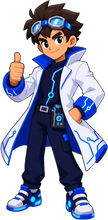
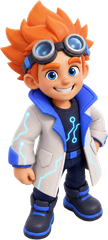
feat: dirección de arte v3 (render 3D estilizado) + caminata fluida
Nuevos assets 3D consistentes generados con referencia maestra: personaje,
plaza circular, moneda Spark. Área caminable recalibrada (elipse + fuente
como obstáculo), sombra bajo el personaje, squash & stretch e inclinación
al caminar, respiración en idle.

Claude-Session: https://claude.ai/code/session_01EoY916mbTRKJrbLf1Qigv7

diff --git a/game/index.html b/game/index.html
@@ -121,13 +121,21 @@
 const WORLD_W = 1920;
 const WORLD_H = 1085;
 
-// Polígono del área caminable (el piso claro de la plaza).
-// Coordenadas sobre la imagen plaza.jpg (1920x1085).
-const FLOOR = [
-  [960, 300], [1250, 360], [1520, 480], [1660, 620],
-  [1560, 800], [1290, 950], [960, 1010], [630, 950],
-  [360, 800], [260, 620], [400, 480], [670, 360],
-];
+// Área caminable de la plaza circular: elipse (vista isométrica)
+// sobre la imagen plaza.jpg (1920x1085), menos la fuente central.
+const FLOOR_CX = 950, FLOOR_CY = 610, FLOOR_RX = 590, FLOOR_RY = 370;
+const FOUNTAIN = { x: 945, y: 575, r: 185 };
+
+const FLOOR = [];
+for (let i = 0; i < 28; i++) {
+  const a = (i / 28) * Math.PI * 2;
+  FLOOR.push([FLOOR_CX + Math.cos(a) * FLOOR_RX, FLOOR_CY + Math.sin(a) * FLOOR_RY]);
+}
+
+function isWalkable(x, y) {
+  if (!pointInPolygon(x, y, FLOOR)) return false;
+  return Math.hypot(x - FOUNTAIN.x, y - FOUNTAIN.y) > FOUNTAIN.r;
+}
 
 function pointInPolygon(x, y, poly) {
   let inside = false;
@@ -142,11 +150,11 @@ function pointInPolygon(x, y, poly) {
 
 function randomFloorPoint() {
   for (let i = 0; i < 200; i++) {
-    const x = 260 + Math.random() * (1660 - 260);
-    const y = 300 + Math.random() * (1010 - 300);
-    if (pointInPolygon(x, y, FLOOR)) return { x, y };
+    const x = FLOOR_CX - FLOOR_RX + Math.random() * FLOOR_RX * 2;
+    const y = FLOOR_CY - FLOOR_RY + Math.random() * FLOOR_RY * 2;
+    if (isWalkable(x, y)) return { x, y };
   }
-  return { x: 960, y: 700 };
+  return { x: 960, y: 880 };
 }
 
 const COIN_COUNT = 6;
@@ -168,13 +176,14 @@ class PlazaScene extends Phaser.Scene {
     this.add.image(0, 0, "plaza").setOrigin(0);
 
     // --- Jugador ---
-    this.player = this.add.image(960, 760, "player").setOrigin(0.5, 0.92);
-    this.baseY = 760;
+    this.shadow = this.add.ellipse(960, 880, 92, 30, 0x0A0A23, 0.32);
+    this.player = this.add.image(960, 880, "player").setOrigin(0.5, 0.94);
+    this.baseY = 880;
     this.target = null;
     this.moving = false;
     this.bobT = 0;
 
-    this.nameTag = this.add.text(960, 760, playerName, {
+    this.nameTag = this.add.text(960, 880, playerName, {
       fontFamily: "ui-sans-serif, system-ui, sans-serif",
       fontSize: "22px", fontStyle: "bold",
       color: "#F4F4FF",
@@ -189,7 +198,7 @@ class PlazaScene extends Phaser.Scene {
     // --- Input ---
     this.input.on("pointerdown", (p) => {
       const wp = this.cameras.main.getWorldPoint(p.x, p.y);
-      if (pointInPolygon(wp.x, wp.y, FLOOR)) {
+      if (isWalkable(wp.x, wp.y)) {
         this.target = { x: wp.x, y: wp.y };
         this.marker(wp.x, wp.y);
       }
@@ -281,20 +290,31 @@ class PlazaScene extends Phaser.Scene {
       this.moving = false;
     }
 
-    // Bob al caminar + flip por dirección
+    // Caminata fluida: bob + squash & stretch + inclinación
     if (this.moving) {
-      this.bobT += dt * 0.02;
-      this.player.y = this.baseY + Math.sin(this.bobT) * 5;
-      this.player.angle = Math.sin(this.bobT) * 2.2;
+      this.bobT += dt * 0.022;
+      const bob = Math.abs(Math.sin(this.bobT));
+      this.player.y = this.baseY - bob * 7;
+      this.player.angle = Math.sin(this.bobT) * 3 + (this.leanDir || 0) * 2.5;
+      this.player.scaleY = this.depthScale * (1 + bob * 0.045);
+      this.player.scaleX = (this.player.flipX ? -1 : 1) * this.depthScale * (1 - bob * 0.03);
+      this.shadow.setScale(1 - bob * 0.12, 1 - bob * 0.12);
     } else {
+      // Idle: respiración sutil
+      this.idleT = (this.idleT || 0) + dt * 0.004;
+      const br = Math.sin(this.idleT) * 0.012;
       this.player.y = this.baseY;
       this.player.angle = 0;
+      this.player.scaleY = this.depthScale * (1 + br);
+      this.player.scaleX = (this.player.flipX ? -1 : 1) * this.depthScale;
+      this.shadow.setScale(1, 1);
       this.bobT = 0;
     }
+    this.shadow.setPosition(this.player.x, this.baseY - 4);
 
     // Pseudo-profundidad: más pequeño al fondo
-    const t = (this.baseY - 300) / (1010 - 300);
-    this.player.setScale(0.72 + t * 0.38);
+    const t = (this.baseY - (FLOOR_CY - FLOOR_RY)) / (FLOOR_RY * 2);
+    this.depthScale = 0.68 + t * 0.42;
     this.nameTag.setPosition(this.player.x, this.player.y - this.player.displayHeight - 6);
 
     // Monedas flotando + recolección
@@ -310,9 +330,9 @@ class PlazaScene extends Phaser.Scene {
     const nx = this.player.x + dx;
     const ny = this.baseY + dy;
     let movedAny = false;
-    if (pointInPolygon(nx, this.baseY, FLOOR)) { this.player.x = nx; movedAny = true; }
-    if (pointInPolygon(this.player.x, ny, FLOOR)) { this.baseY = ny; movedAny = true; }
-    if (dx !== 0) this.player.setFlipX(dx < 0);
+    if (isWalkable(nx, this.baseY)) { this.player.x = nx; movedAny = true; }
+    if (isWalkable(this.player.x, ny)) { this.baseY = ny; movedAny = true; }
+    if (dx !== 0) { this.player.setFlipX(dx < 0); this.leanDir = dx < 0 ? -1 : 1; }
     this.moving = movedAny;
     if (!movedAny) this.target = null;
   }

diff --git a/game/README.md b/game/README.md
@@ -38,7 +38,7 @@ No requiere build ni dependencias: Phaser 3 va incluido (`phaser.min.js`).
 ## Assets
 
 Todo el arte se genera con IA vía Higgsfield (GPT Image 2) siguiendo la
-guía de estilo: cel-shaded tipo Brawl Stars, paleta Master Lab IA
+guía de estilo: render 3D estilizado tipo Oddsparks/Supercell (materiales clay, iluminación de estudio), paleta Master Lab IA
 (azul `#1E1EFF`, tinta `#0A0A23`, neblina `#F4F4FF`), ambientación de
 laboratorio de inteligencia artificial, bata como prenda insignia.
 
